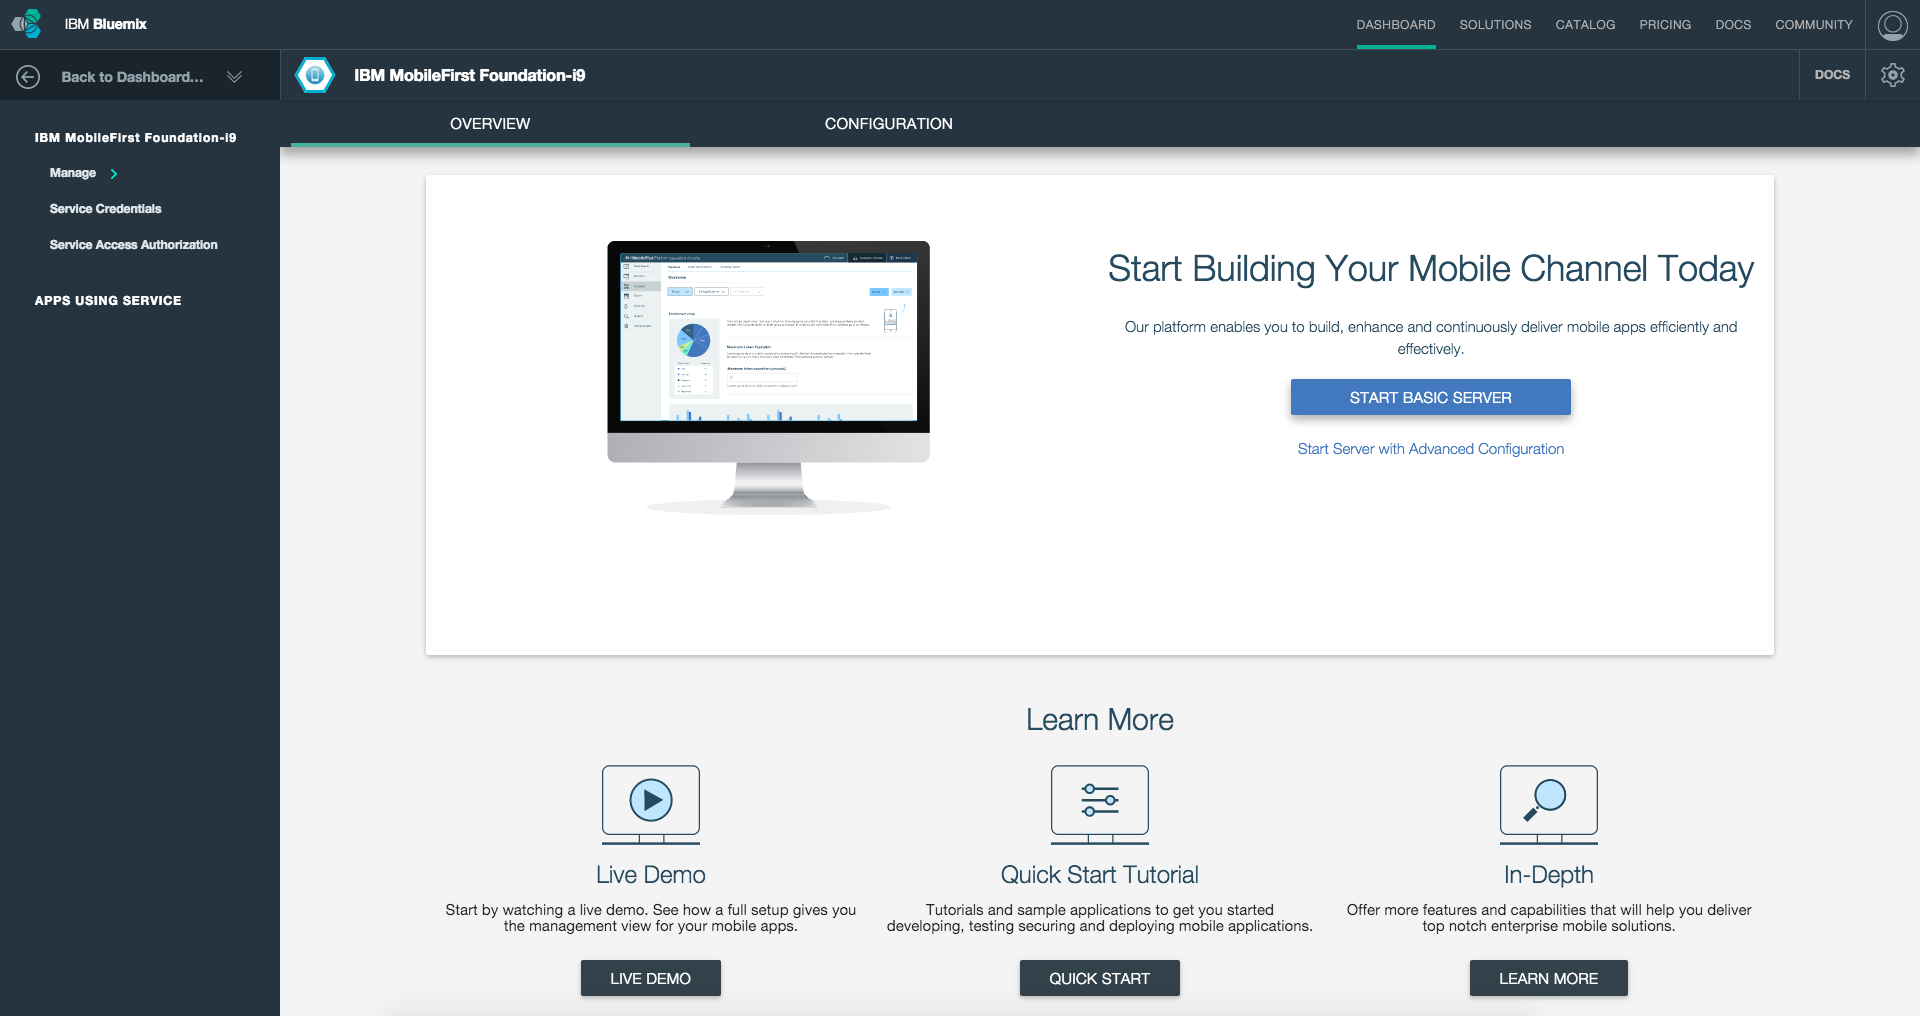
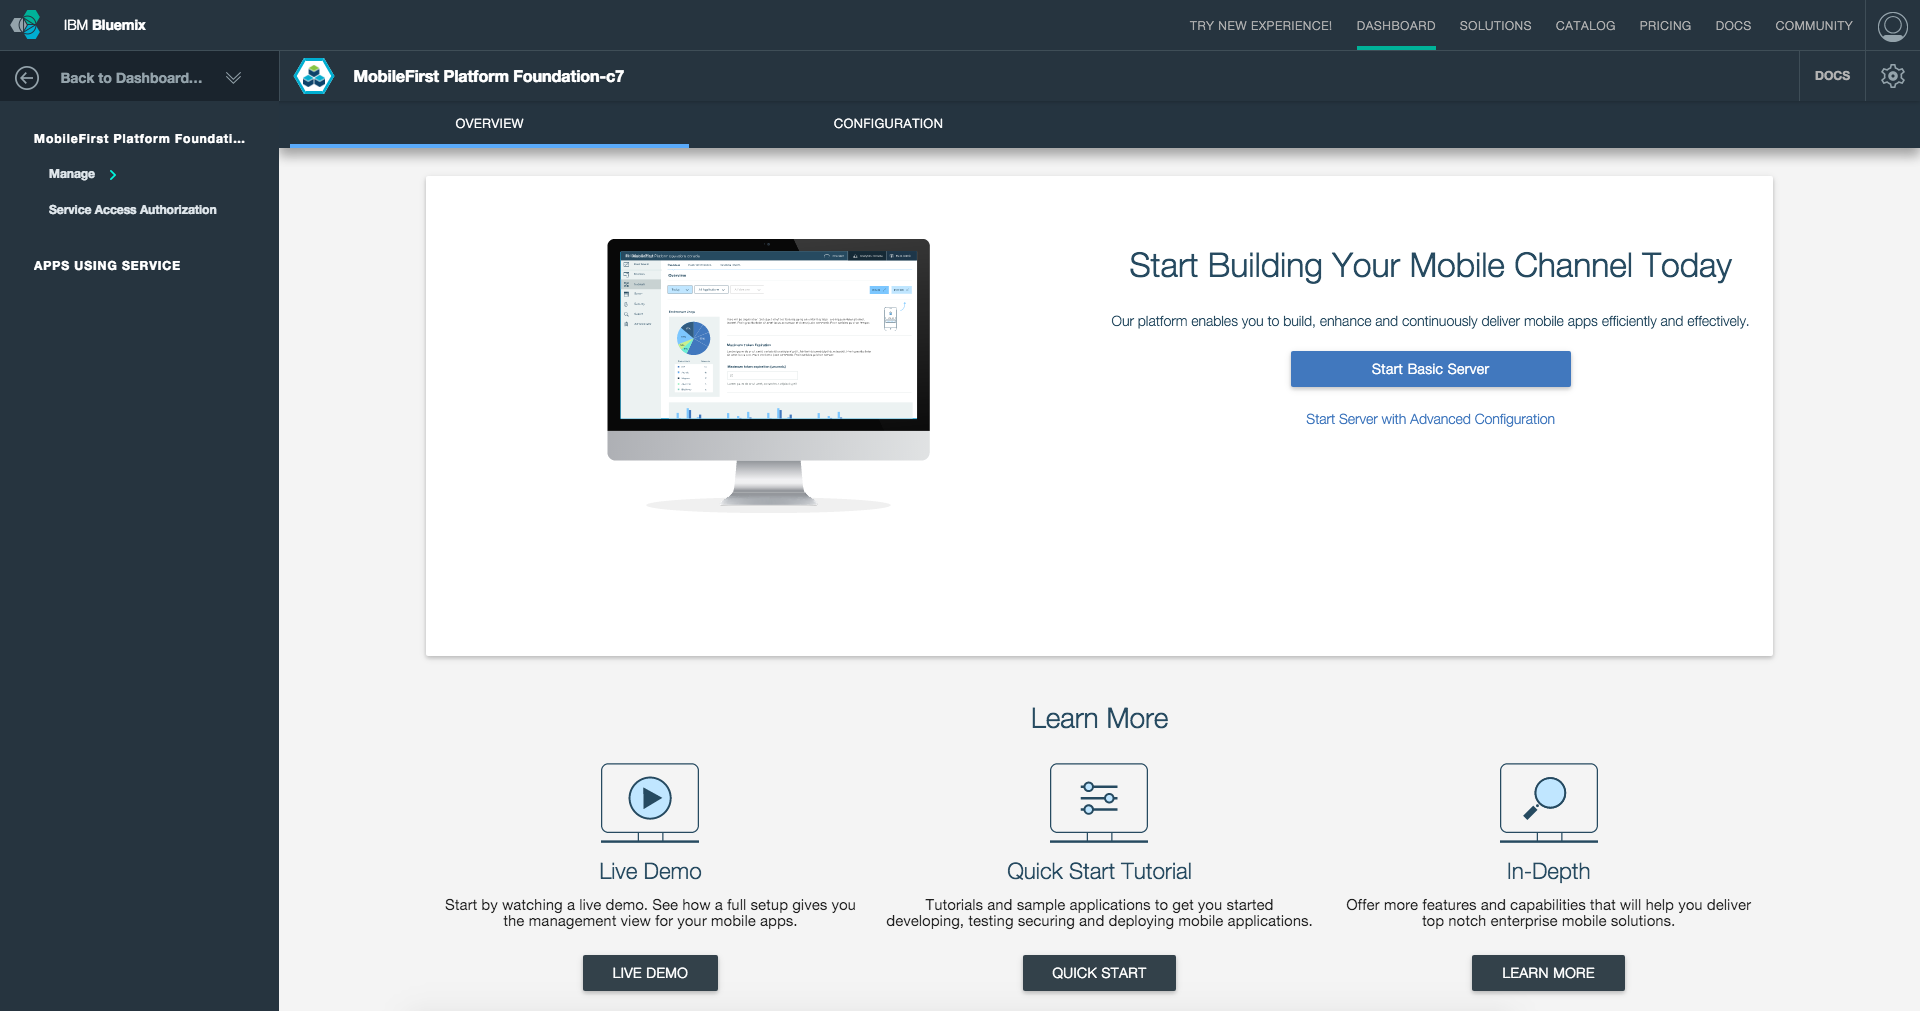
Updates to foundation tile tutorial

diff --git a/tutorials/en/foundation/8.0/ibm-containers/using-foundation-tile/index.md b/tutorials/en/foundation/8.0/ibm-containers/using-foundation-tile/index.md
@@ -12,47 +12,60 @@ IBM MobileFirst Platform Foundation Tile is a **Bluemix service** that enables q
 
 > **Prerequisite:** Make sure to read the [Introduction to IBM MobileFirst Platform Foundation on IBM Containers]("../") tutorial.
 
+#### Jump to:
+
+* [Using MobileFirst Platform Foundation Tile](#using-mobilefirst-platform-foundation-tile)
+* [Basic Server](#basic-server)
+* [Advanced server configuration](#advanced-server-configuration)
+* [Further reading](#further-reading)
+
 ## Using MobileFirst Platform Foundation Tile
 
-1. Load [bluemix.net](http://bluemix.net) and visit the **Catalog** page, search for "MobileFirst Platform Foundation".
+1. Load [bluemix.net](http://bluemix.net) and visit the **Catalog** page.
 
-    ![Image of the MobileFirst Platform Foundation Tile setup](search-for-foundation.png)
-    
-2. Optionally set a **Service name** and click **Create**.
+2. From the left sidebar, tick the "Mobile" checkbox under **Services**. Then, click on **MobileFirst Platform Foundation** to begin the service creation process.
 
-    ![Image of the MobileFirst Platform Foundation Tile setup](set-service-name.png)
-    
-3. Optionally update the server configuration in the [Configuration tab](#configuring-the-server-instance).
+    ![Image of the MobileFirst Platform Foundation Tile setup](service-page.png)
 
-4. Click in **Start Basic Server** to start the server.
+3. Select a **space** to use and optionally set a **Service name**. Then, click **Create**.
+
+    ![Image of the MobileFirst Platform Foundation Tile setup](setup-service.png)
+
+4. Agree to the Early Beta license terms, provide your Bluemix username and password, and click **Continue**.
+
+5. Optionally update the server configuration in the [Configuration tab](#configuring-the-server-instance), and click on **Start advanced server**.
+
+6. Click in **Start Basic Server** to start the MobileFirst Server.
 
     ![Image of the MobileFirst Platform Foundation Tile setup](overview-page.png)
 
-5. After starting the server you are presented with the MobileFirst Platform Operations Console.
+7. After starting the server you are presented with the MobileFirst Platform Operations Console.
 
     ![Image of the MobileFirst Platform Foundation Tile setup](console.png)
 
 ## Basic Server
 The created server instance baseline is made of:
 
-* Single node
+* A single node
 * 512MB memory
 * 32GB storage capacity
 
-## Configuring the server instance
-It can be further customized with varying node, memory and storage combinations.
+## Advanced server configuration
+Through the Configuration tab, the server instance can be further customized with:
 
-The server instance can be further configured through the Configuration tab:
-
+* Varying node, memory and storage combinations
 * console username &amp; password
-* security keys
-* JNDI confiration
-* user registration
+* LTPA keys
+* JNDI configuration
+* user registry 
+* TrustStore
 * MobileFirst Platform Foundation Analytics configuration
 * Database selection
 * VPN
 
-> **Note:** The beta release does not support all mentioned features. These will be added with time until the GA release.
+> **Note:** The beta release does not support all mentioned features.
+
+![Image of the MobileFirst Platform Foundation Tile setup](advanced-server-configuration.png)
 
 ## Further reading
 Now that the MobileFirst Server instance is up &amp; running, you can learn more about the MobileFirst Operations Console, how to create applications and adapters and enhance applications with push notifications, security and more.
